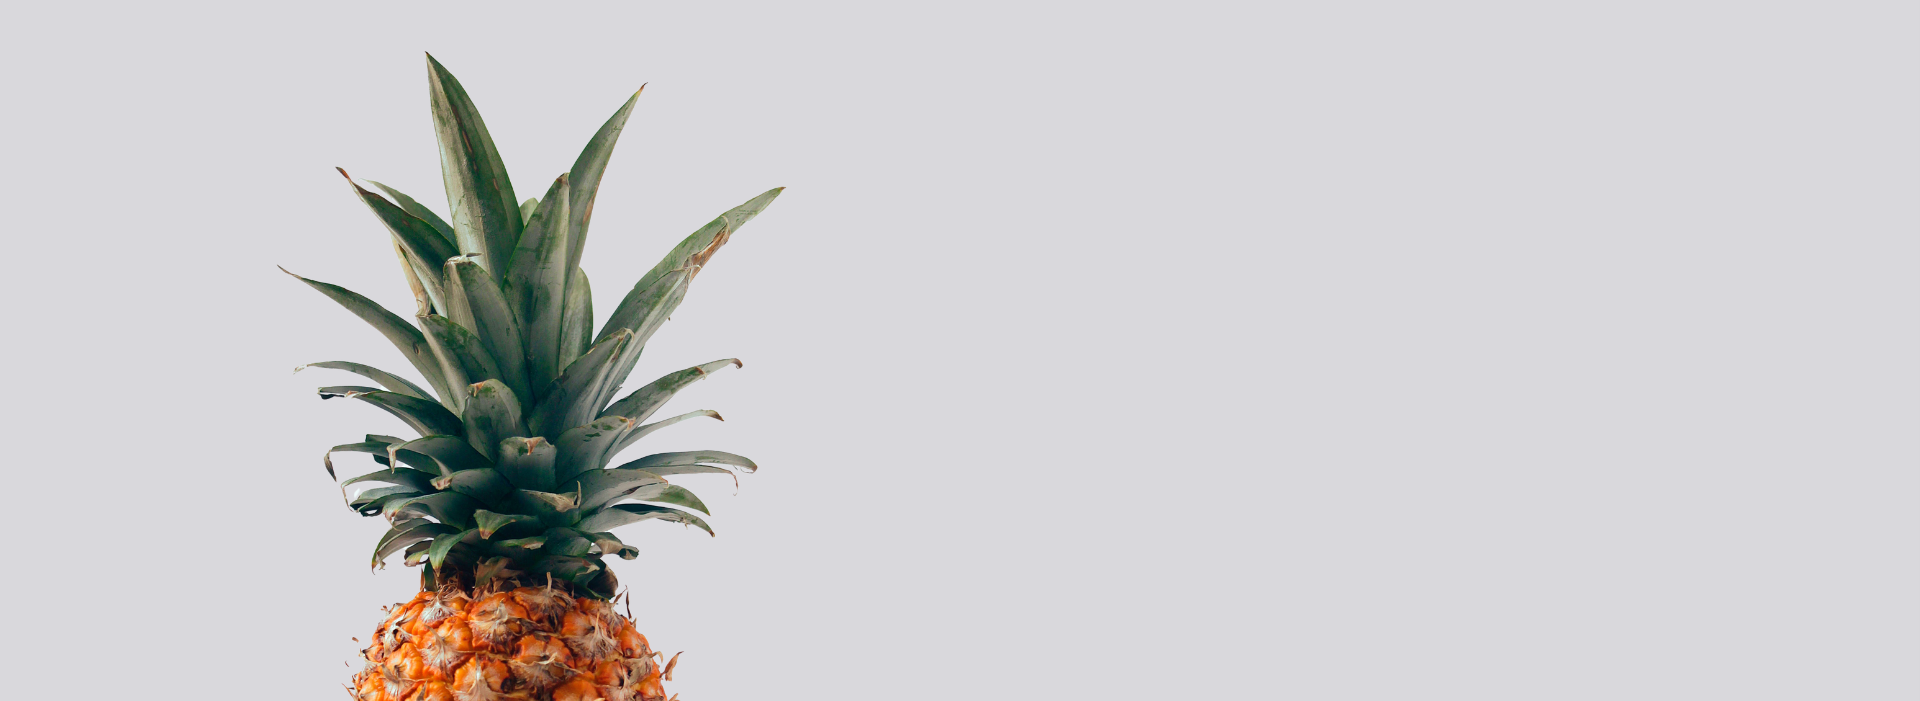
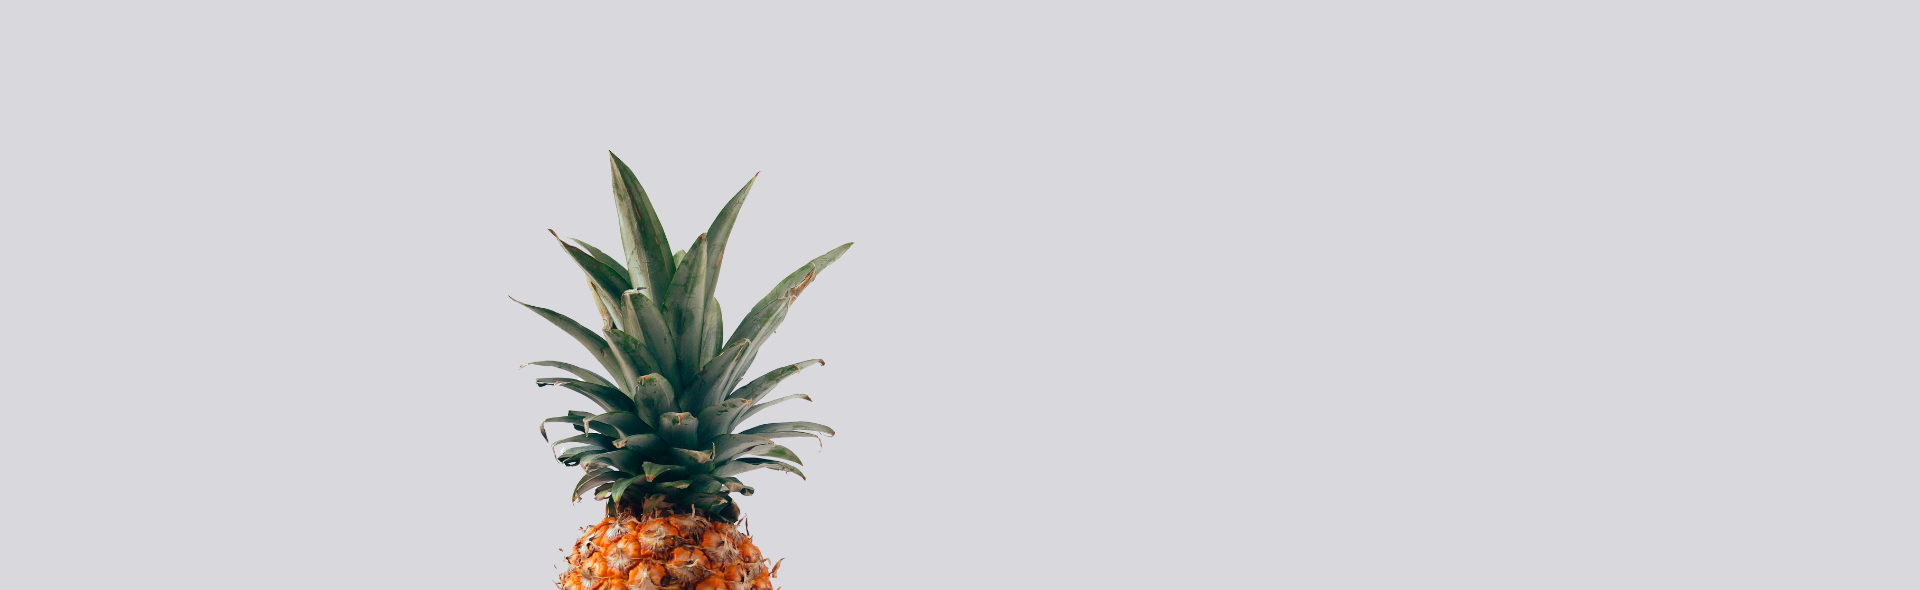
ImageHeader

Changed region(s): [[0.1562, 0.0915, 0.4375, 1.0]]

diff --git a/src/pages/PlatesMenu.js b/src/pages/PlatesMenu.js
@@ -1,4 +1,3 @@
-import mainImage from '../assets/img/mainImage.png'
 import '../styles/PlatesMenu.css'
 import { useEffect, useReducer, useState } from 'react'
 import { getCategories } from '../services/getCategories'
@@ -8,6 +7,8 @@ import { getRecipesPerCategory } from '../services/getRecipes'
 import { RecipeWidget } from '../components/PlatesMainPage/RecipeWidget'
 import { debounce } from '../services/debounce'
 import { SortSelect } from '../components/General/SortSelect'
+import chefIcon from '../assets/img/chefIcon.png'
+import { FaCircle } from "react-icons/fa6";
 
 
 function recipesReducer(state, action) {
@@ -48,7 +49,6 @@ function recipesReducer(state, action) {
 
 
 export function PlatesMenu(){
-
     const [categories, setCategories] = useState(null)
     const [recipes, dispatchRecipes] = useReducer(recipesReducer, {
         currentRecipes: [],
@@ -88,48 +88,59 @@ export function PlatesMenu(){
     }
 
     return(
-        <div className='platesMenu'>
+      <div>
+        <div className='heroImageContainer'>
+          <div className='platesMenuHeroImage'>
+            <p><img src={chefIcon} id="chefHat"/>HomeChef</p>
+            
+            <div>
+              <h1>Chefs</h1>
+              <p id='shortDescription'> <FaCircle id='redCircle'/> New Recipe for you to try out, let's cook</p>
+            </div>
+            <h1 id='movedParagraph'>Academy</h1>
+            <h1>Secrets</h1>
+          </div>
+        </div>
+        
+        
+        <div className='mainContainer'>
+          {/* Lado de las categorias */}
+          <aside className='categoriesContainer'>
+            <h2>Categories</h2>
+            <div className='categoriesGrid'>
+              {
+                categories ? 
+                categories.map(category => <Category key={category.idCategory} name={category.strCategory} imageUrl={category.strCategoryThumb}
+                  onClick={()=>dispatchRecipes({type:"setCategory", category: category.strCategory})} active={recipes.category == category.strCategory}/>)
+                :
+                <p>Cargando categorias</p>
+              }
+            </div>
+          </aside>
 
-          <img className="platesMenuHeroImage" src={mainImage}/>
-          <div className='mainContainer'>
-            {/* Lado de las categorias */}
-            <aside className='categoriesContainer'>
-                    <h2>Categories</h2>
-                    <div className='categoriesGrid'>
-                        {
-                            categories ? 
-                            categories.map(category => <Category key={category.idCategory} name={category.strCategory} imageUrl={category.strCategoryThumb}
-                            onClick={()=>dispatchRecipes({type:"setCategory", category: category.strCategory})} active={recipes.category == category.strCategory}/>)
-                            :
-                            <p>Cargando categorias</p>
-                        }
-                    </div>
-                </aside>
-
-                {/* Display de las recetas */}
-                <main className='recipesMainContainer'>
-                    {/* Buscador de las recetas */}
-                    <div className='searchBar'>
-                      <SearchInput placeholder={"Search recipes and more"} onChange={(e) => debouncedSearch(e)}/>
-      
-                      <SortSelect onChangeSelection={handleSort}/>
+          {/* Display de las recetas */}
+          <main className='recipesMainContainer'>
+            {/* Buscador de las recetas */}
+            <div className='searchBar'>
+              <SearchInput placeholder={"Search recipes and more"} onChange={(e) => debouncedSearch(e)}/>
+              <SortSelect onChangeSelection={handleSort}/>
  
-                    </div>
+            </div>
                     
                         
-                    {/* Grid de las recetas */}
-                    <div className='recipesGrid'>
-                        {
-                          recipes.filteredRecipes.length > 0 ?
-                            recipes.filteredRecipes.map(recipe=>
-                                <RecipeWidget key={recipe.idMeal} name={recipe.strMeal} imageUrl={recipe.strMealThumb} recipeUrl={`/${recipe.idMeal}`}/>
-                            )
-                            :
-                            <p>No hay recetas para mostrar</p>
-                        }
-                    </div>
-                </main>
+            {/* Grid de las recetas */}
+            <div className='recipesGrid'>
+            {
+              recipes.filteredRecipes.length > 0 ?
+              recipes.filteredRecipes.map(recipe=>
+                <RecipeWidget key={recipe.idMeal} name={recipe.strMeal} imageUrl={recipe.strMealThumb} recipeUrl={`/${recipe.idMeal}`}/>
+              )
+              :
+              <p>No hay recetas para mostrar</p>
+            }
             </div>
+          </main>
         </div>
+      </div>
     )
 }

diff --git a/src/styles/PlatesMenu.css b/src/styles/PlatesMenu.css
@@ -1,7 +1,70 @@
-.platesMenuHeroImage{
-    padding: 1rem;
-    border-radius: 2rem;
+.heroImageContainer{
     width: 100%;
+    padding: 1rem;
+}
+
+.platesMenuHeroImage{
+    background: url(../assets/img/mainImage.png);
+    background-repeat: no-repeat;
+    background-position: 40% bottom;
+    border-radius: 2rem;
+    padding: 1rem;
+    padding-left: 55%;
+    min-height: 46rem;
+    display: flex;
+    flex-direction: column;
+    justify-content: center;
+    gap: 2rem;
+}
+
+.platesMenuHeroImage div{
+    display: flex;
+}
+
+.platesMenuHeroImage h1{
+    font-size: 5rem; 
+}
+
+.platesMenuHeroImage p, .platesMenuHeroImage h1{
+    color: var(--backgroundBlue);
+    font-weight: bold;
+}
+
+.platesMenuHeroImage p{
+    font-size: 1.1rem;
+}
+
+#movedParagraph{
+    margin-left: 6rem;
+}
+
+#shortDescription{
+    max-width: 14rem;
+    margin-left: 8rem;
+}
+
+#chefHat{
+    width: 2.5rem;
+}
+
+#redCircle{
+    color: red;
+    border: 1px solid var(--backgroundBlue);
+    border-radius: 100%;
+}
+
+@media(max-width: 680px){
+    .platesMenuHeroImage{
+        background-position: 45% bottom;
+        padding-left: 32%;
+    }
+    #movedParagraph{
+        margin-left: 2rem;
+    }
+
+    #shortDescription{
+        margin-left: 2rem;
+    }
 }
 
 .platesMenu{
